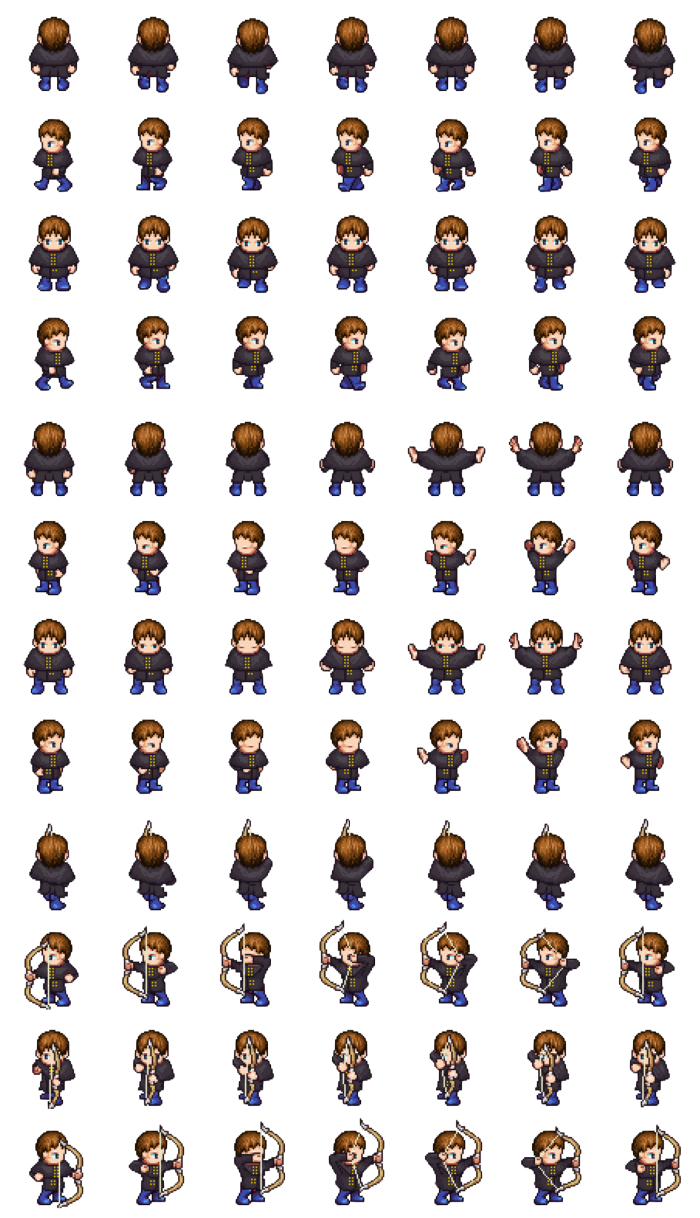
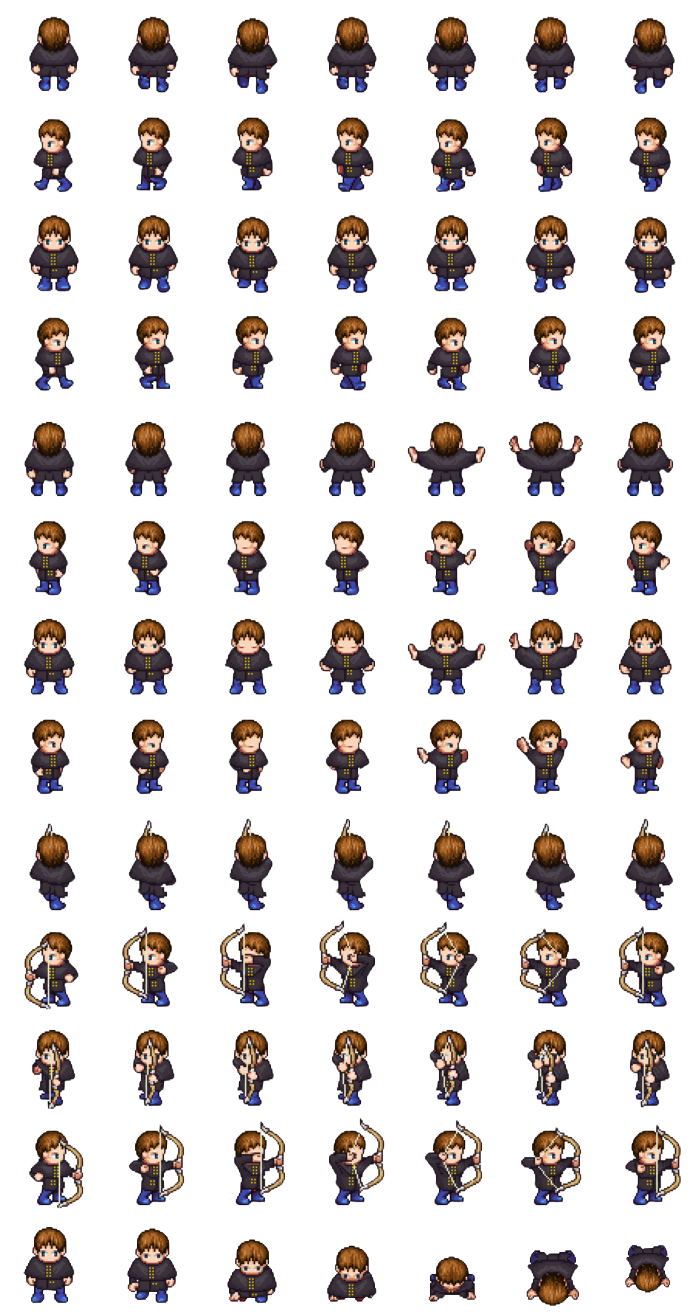
11 th update

diff --git a/final task1/level1.h b/final task1/level1.h
@@ -67,7 +67,14 @@ int level1(Sprite& backg,
     prize crown(700, 700, c_prize);
 
     
+    float w;
+    w = 100;
 
+    float dh;
+    dh = 95;
+
+
+    
 
 
     Animation animation(&heroTexture, Vector2u(4, 4), 0.1f);
@@ -79,7 +86,7 @@ int level1(Sprite& backg,
 
 
 
-    Hero Oshayer(&heroTexture, Vector2u(7, 12), 0.1f,50,0);
+    Hero Oshayer(&heroTexture, Vector2u(7, 13), 0.1f,50,0);
     Enemy Drago(&dragonTexture, Vector2u(3, 4), 0.1f, 100,1500,0);
     Hazard dangerfire(&firetexture, Vector2u(9, 1), 0.1f, 100, 1000, 500);
     Hazard G_greenfire(&greenfire, Vector2u(8, 1), 0.1f, 100, 800, 500);
@@ -193,14 +200,53 @@ int level1(Sprite& backg,
         G_greenfire.Update_hazard(greenfire, deltaTime);
         G_greenfire.Draw(window);                              
 
+        
 
-        RectangleShape healthbar(Vector2f(20,100));
+        RectangleShape healthbar_player(Vector2f(w, 10));
 
-        healthbar.setFillColor(Color::Green);
+        healthbar_player.setFillColor(Color::Green);
 
-        healthbar.setPosition(1750, 50);
+        healthbar_player.setPosition(Oshayer.body.getPosition());
 
-        window.draw(healthbar);
+        if (player_obstacle.collision_chk_S(Oshayer.body, dragonfire.spell_sprite)) {
+
+            w -= 0.3;
+
+            if (w <= 0) {
+                w = 0;
+                Oshayer.Update_death(heroTexture,deltaTime,100);
+                break;
+            }
+                
+
+
+
+        }
+
+        window.draw(healthbar_player);
+
+
+        RectangleShape healthbar_dragon(Vector2f(dh, 10));
+
+        healthbar_dragon.setFillColor(Color::Red);
+        healthbar_dragon.setPosition(Drago.enemyBody.getPosition());
+
+        if (player_obstacle.collision_chk_S(Drago.enemyBody, G_redSpell.spell_sprite)) {
+            dh -= 0.1;
+            if (dh <= 0) {
+                dh = 0;
+                Drago.enemyBody.setPosition(-5000,-5000);
+            }
+        }
+
+        window.draw(healthbar_dragon);
+        
+
+
+
+        
+
+        
 
         //Oshayer.collider(S_STONE);
 

diff --git a/final task1/Hero.cpp b/final task1/Hero.cpp
@@ -1,4 +1,6 @@
 #include "Hero.h"
+#include "collision.h"
+
 
 Hero::Hero(Texture* texture, Vector2u imageCount, float switchTime,float x, float y):
 	animation(texture,imageCount,switchTime)
@@ -38,13 +40,17 @@ void Hero::Update_Clock(Texture& texture, float deltaTime, float speed) {
     elapsed += clk.restart();
     if (!powerGenerate && elapsed >= interval) {
         powerGenerate = true;
-        //cout << "Generated" << endl;
+       
+        ss1 << "RUN";
         
     }
         if (powerGenerate == true && elapsed >= interval + seconds(0.5)) {
             powerGenerate = false;
             elapsed = milliseconds(0);
+            
+            ss2 << "walk";
         }
+
 
  }
 
@@ -399,6 +405,14 @@ void Hero::prize_hijack(RenderWindow& window, Sprite& c_prize) {
 //
 //
 //}
+
+
+void Hero::Update_death(Texture& texture, float deltaTime, float speed) {
+    animation.Update(12, deltaTime);
+
+    body.setTextureRect(animation.uvRect);
+
+}
 
 
 

diff --git a/final task1/Hero.h b/final task1/Hero.h
@@ -4,6 +4,7 @@
 #include "Animation.h"
 #include<iostream>
 #include<vector>
+#include <sstream>
 using namespace std;
 using namespace sf;
 
@@ -17,6 +18,11 @@ public:
 
 	void special_movement(Texture& texture, float deltaTime, float speed);
 
+	void Update_death(Texture& texture, float deltaTime, float speed);
+
+
+	float Maxhp;
+	float currenthp;
 
 
 	
@@ -27,11 +33,14 @@ public:
 
 	void Draw(RenderWindow& window);
 
+	
+
 	//int Health(Sprite& A , Sprite& B);
 	Sprite body;
 
-	int Total_HP = 5000;
-	int current_hp = 10;
+	
+	RectangleShape hpbox;
+
 
 	RectangleShape border;
 
@@ -47,6 +56,8 @@ private:
 	float distance;
 
 	float speed;
+
+	stringstream ss1,ss2;
 
 
 

diff --git a/final task1/SpellCast.cpp b/final task1/SpellCast.cpp
@@ -15,7 +15,7 @@ void SpellCast::Shoot(RenderWindow& window, float deltaTime, Sprite& shooter, Sp
 
 
 	if (Keyboard::isKeyPressed(Keyboard::Space)) {
-		spell_sprite.setPosition(u, v);
+		spell_sprite.setPosition(u+25, v+25);
 		velocityX = 500;
 		spellVelocity = Vector2f(x - u, y - v);
 
@@ -66,12 +66,12 @@ void SpellCast::spellTimer() {
 
 	if (!power && elapsedtime >= intervaltime) {
 		power = true;
-		cout << 1 << endl;
+		//cout << 1 << endl;
 	}
 	if (power == true && elapsedtime >= intervaltime + seconds(0.25)) {
 		power = false;
 		elapsedtime = milliseconds(0);
-		cout << 0 << endl;
+		//cout << 0 << endl;
 
 	}
 }
